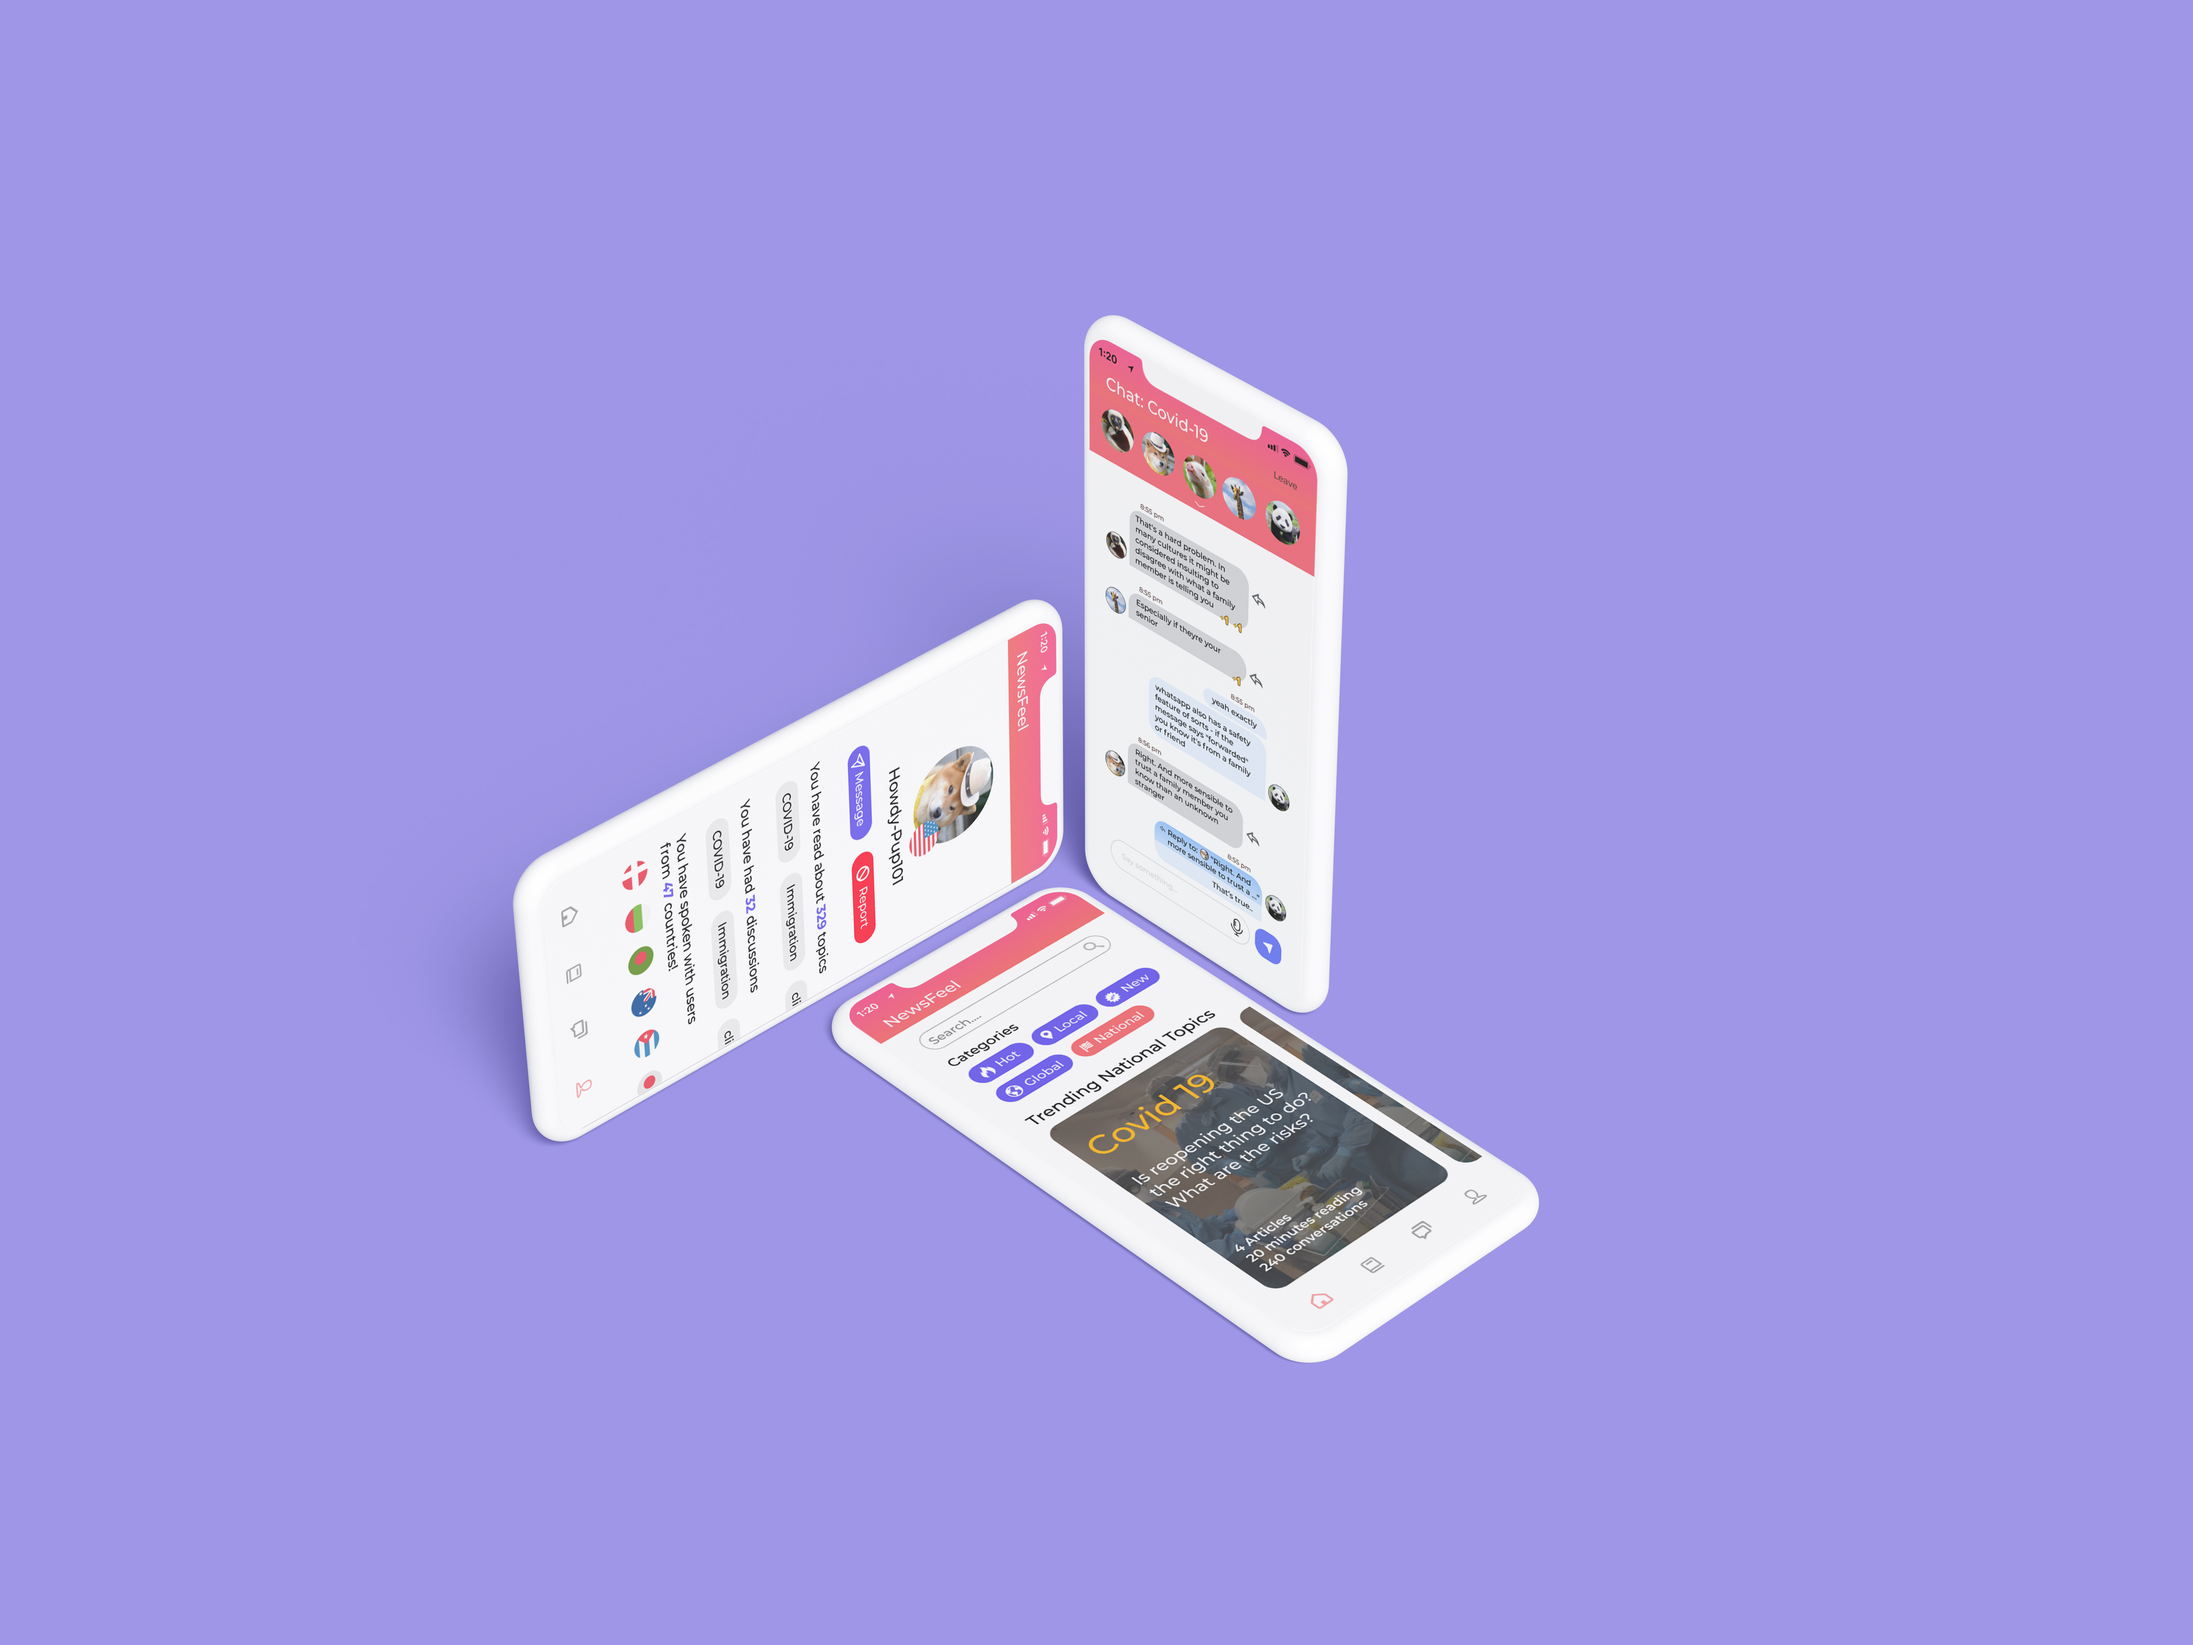
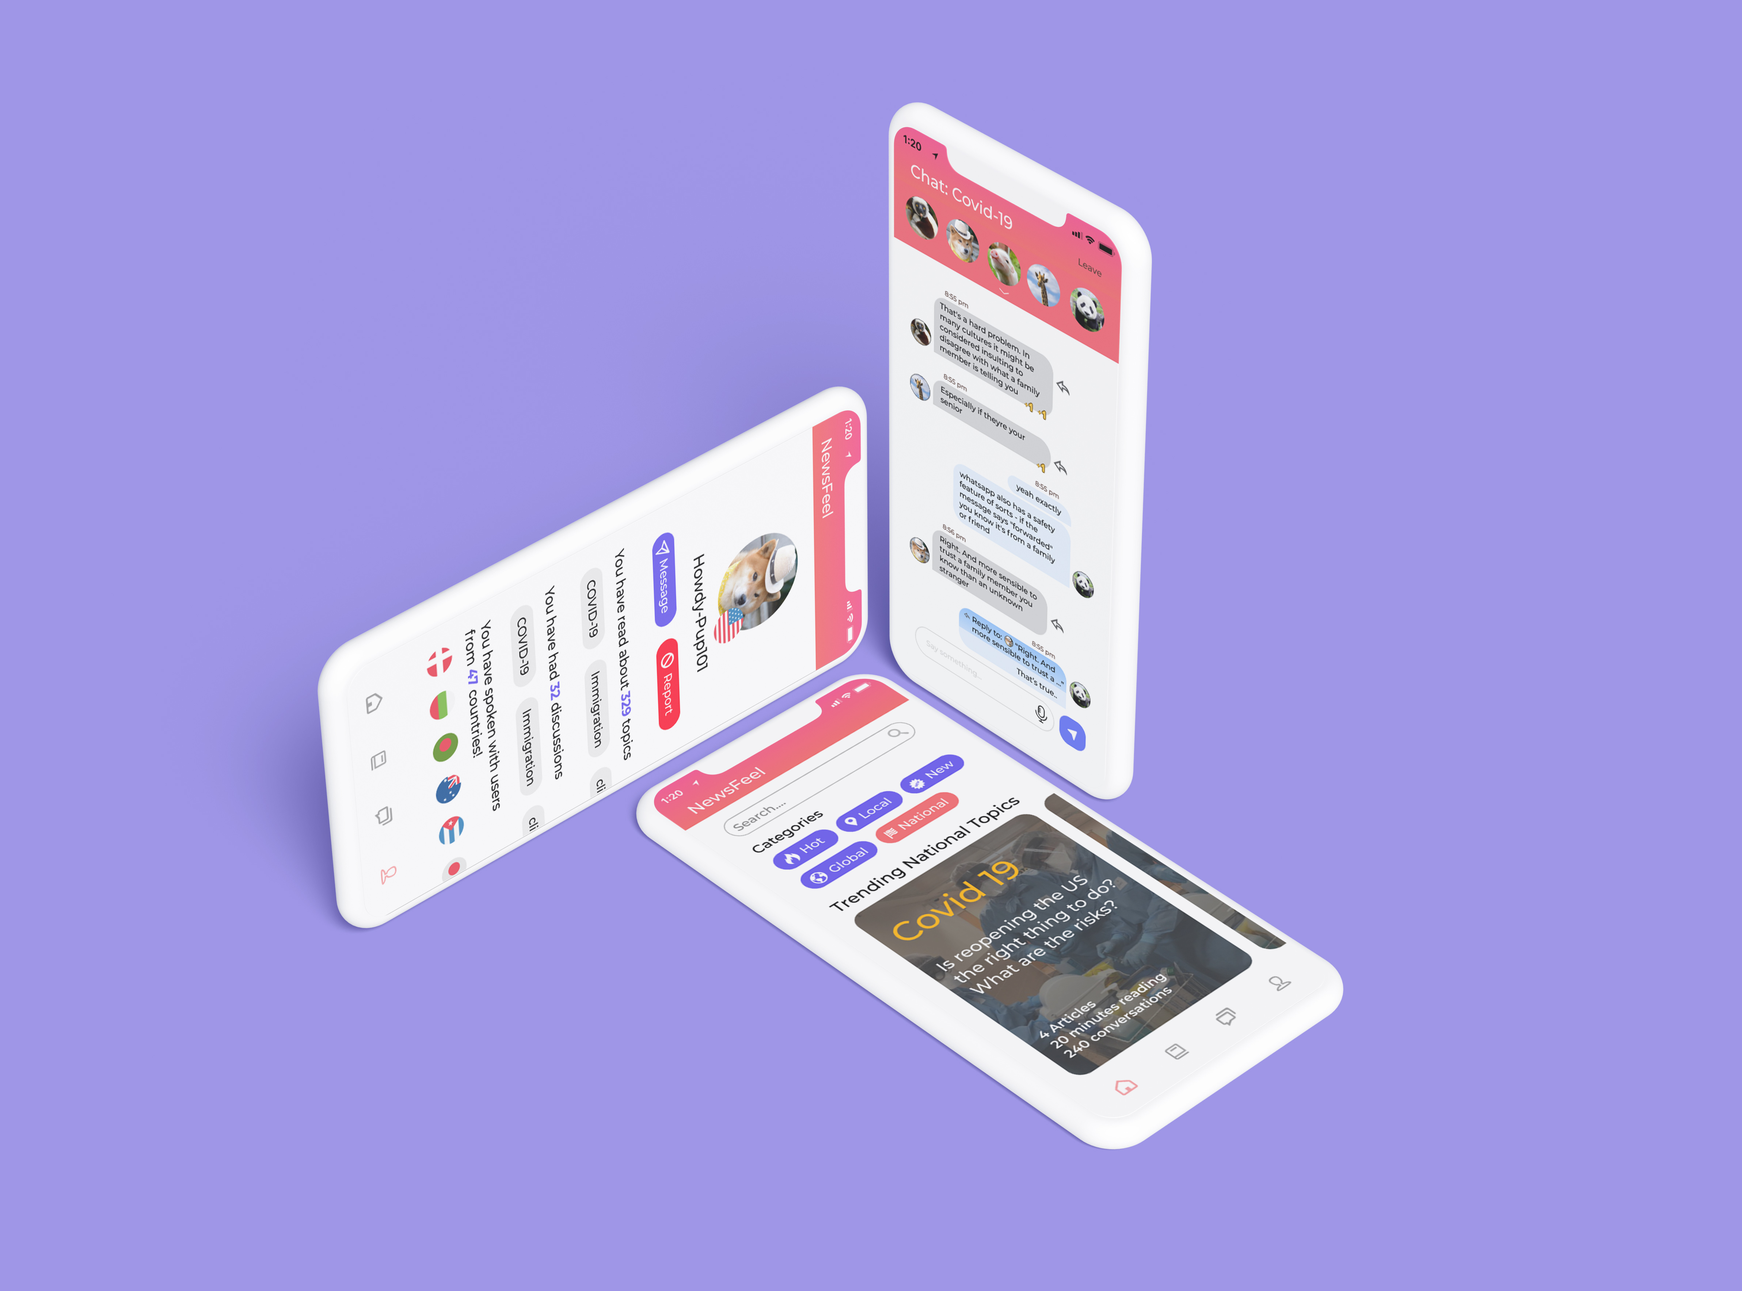
updates

Changed region(s): [[0.1562, 0.0623, 0.7812, 0.9027]]

diff --git a/index.html b/index.html
@@ -127,6 +127,7 @@
           </a>
         </div>
         
+
         <div class="col-sm-6 col-md-6 col-lg-6" data-aos="fade" data-aos-delay="100">
           <a href="portfolio-mayadashboard2.html" class="work-thumb">
             <div class="work-text">
@@ -149,7 +150,22 @@
             <img src="images/whiteboardcover.png" alt="Image" class="img-fluid">
           </a>
         </div>
+
+
+<!--
+       <div class="col-sm-6 col-md-6 col-lg-6" data-aos="fade" data-aos-delay="300">
+          <a href="" class="work-thumb">
+            <div class="work-text">
+              <h2>NewsFeel - A current event and chat based mobile application</h2>
+              <p>A product created to help promote empathy and dialogue about current events </p>
+              <p> Skills: UX Design, Interaction Design, UX Research </p>
+            </div>
+            <img src="images/newsfeel_hero.jpg" alt="Image" class="img-fluid">
+          </a>
+        </div>
         
+--> 
+
    <!--User Exp Projects 
         <div class="col-sm-6 col-md-6 col-lg-6" data-aos="fade" data-aos-delay="400">
           <a href="portfolio-mayadashboard.html" class="work-thumb">

diff --git a/portfolio-Newsfeel.html b/portfolio-Newsfeel.html
@@ -171,7 +171,7 @@
   <div class="row justify-content-center mb-5">
       <div class="col-lg-12">
           <div class="media d-block media-custom text-center">
-            <a data-aos="fade-up" data-aos-delay="100" href="images/newsfeel_hero.jpg" class="mb-3 d-block" data-fancybox="gal"><img src="images/newsfeel_hero.jpg" alt="Image" class="img-fluid"></a>
+            <a data-aos="fade-up" data-aos-delay="100" href="images/newsfeel_hero2.jpg" class="mb-3 d-block" data-fancybox="gal"><img src="images/newsfeel_hero2.jpg" alt="Image" class="img-fluid"></a>
           </div>
       </div>
   </div>
